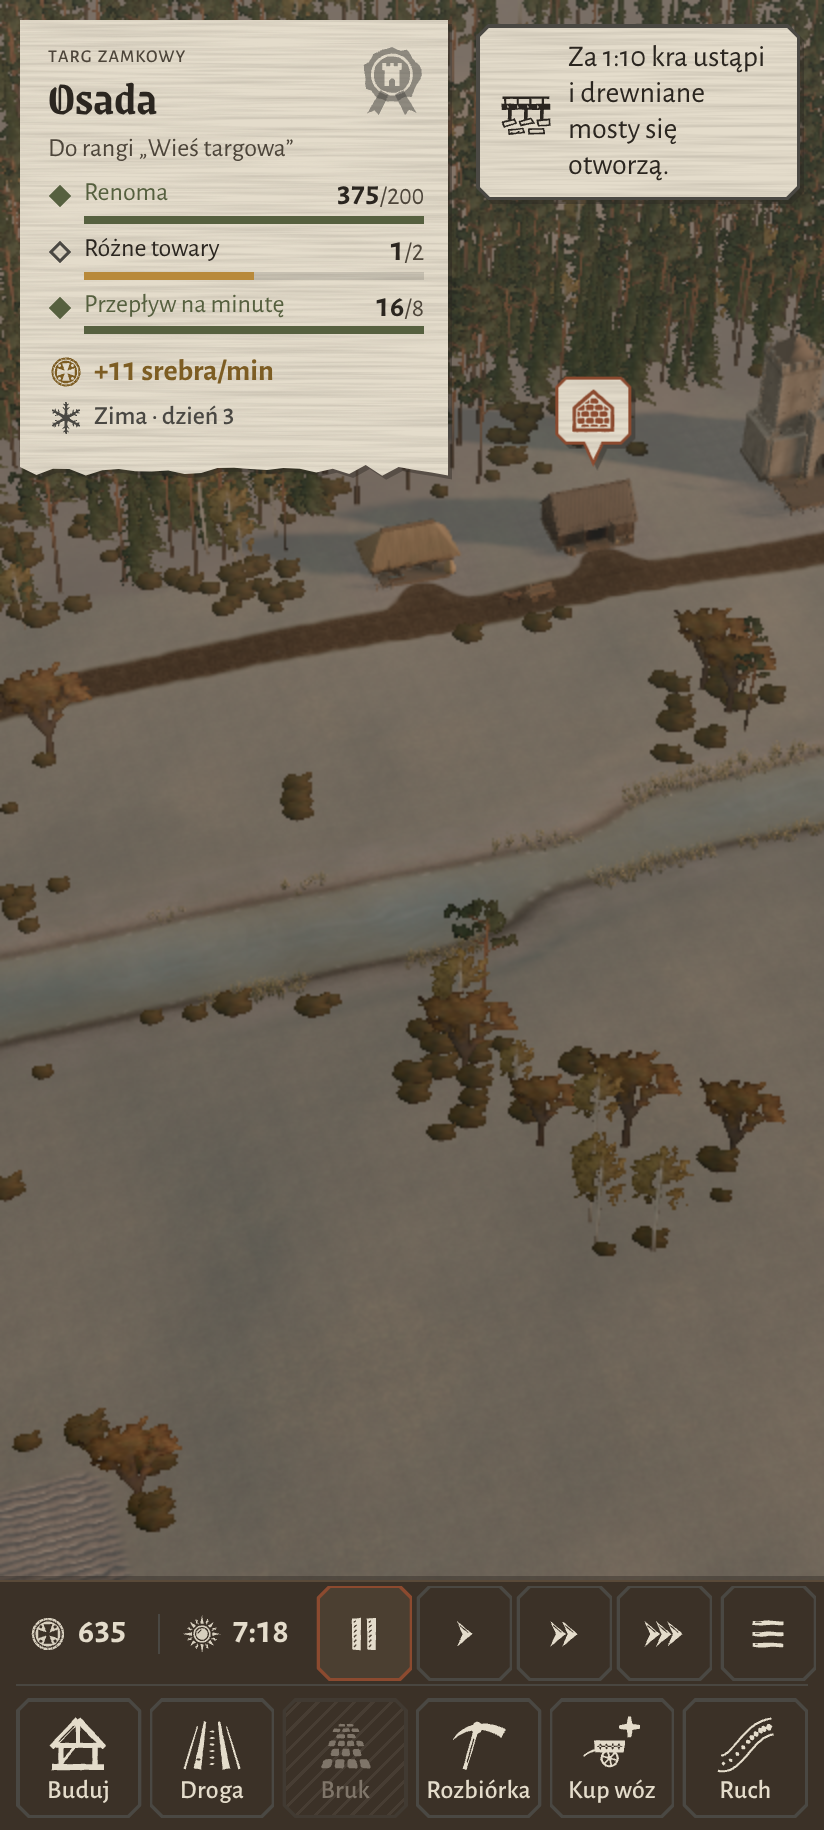
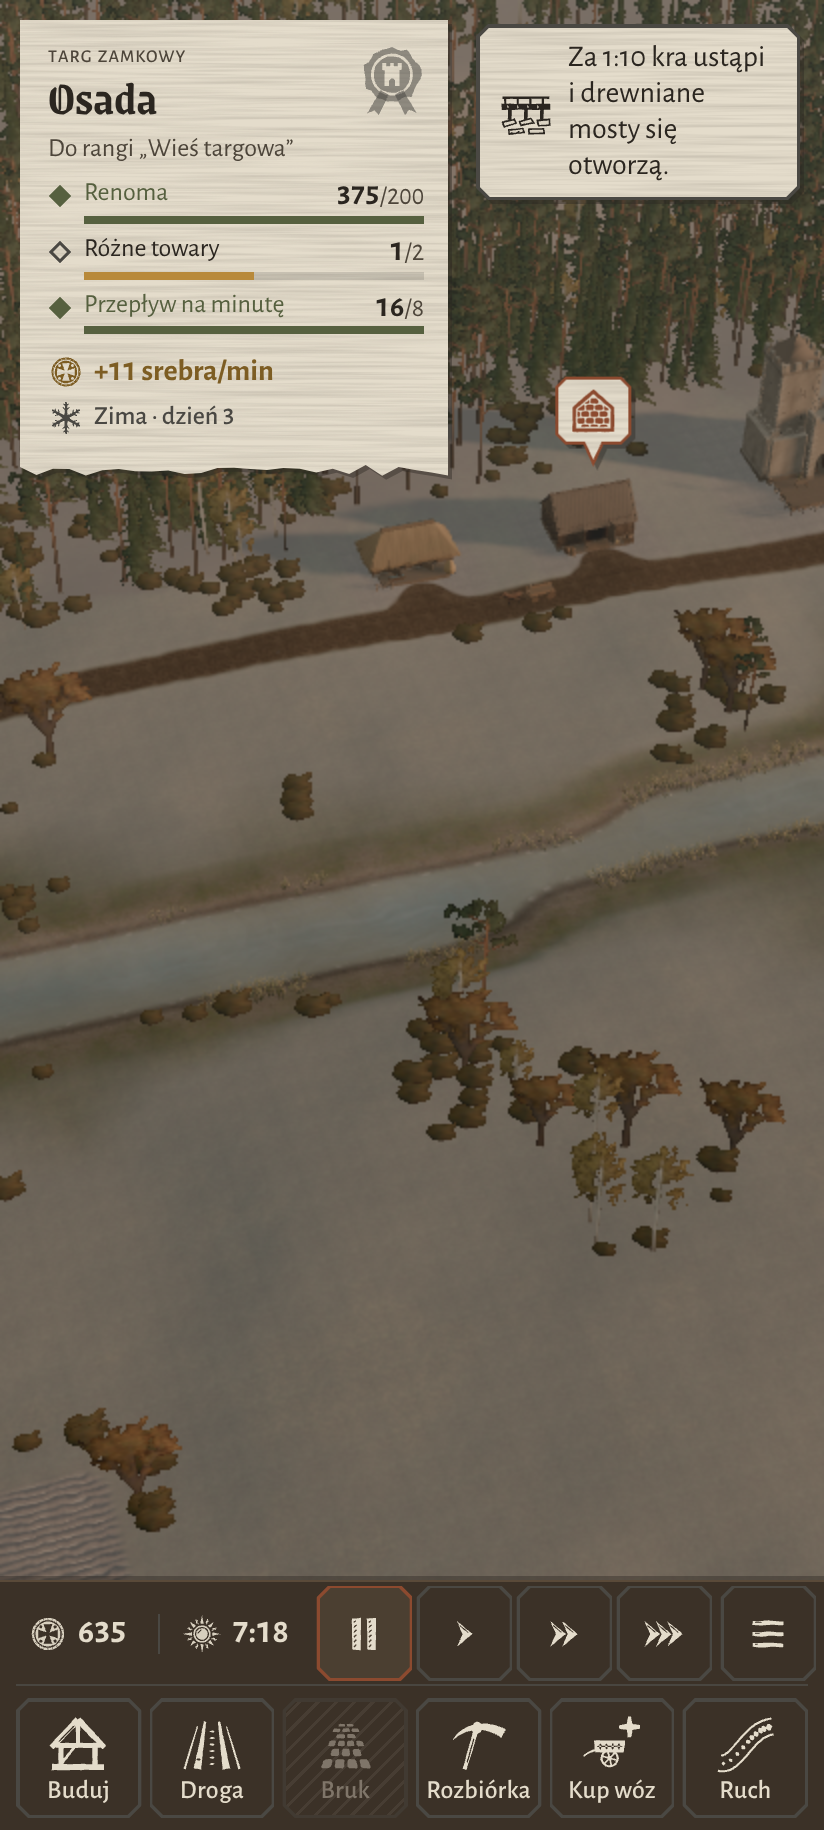
docs(seasons): D-33, design status; frost spares the river bank
Record how the seasons were wired (data flag derived into World.seasons,
no state version change), the before/after measurements, and update the
design doc to point at src/sim/seasons.ts. The winter frost uniform now
fades out near the water line.

Claude-Session: https://claude.ai/code/session_019bNUiNWDs1XtC7FDp2iuqt

Changed region(s): [[0.0, 0.3738, 1.0, 0.5295], [0.0, 0.5295, 0.5158, 0.623]]

diff --git a/src/render/terrain.ts b/src/render/terrain.ts
@@ -514,7 +514,7 @@ const FRAG_MAIN = /* glsl */ `
   if (uWinter > 0.001) {
     float lum = dot(A, vec3(0.3, 0.59, 0.11));
     // roads keep their colour (they carry the diagnosis) and the river bed stays dark
-    float frost = uWinter * 0.42 * (1.0 - roadCover) * smoothstep(-0.2, 0.6, hW);
+    float frost = uWinter * 0.42 * (1.0 - roadCover) * smoothstep(0.3, 1.2, hW);
     A = mix(A, vec3(lum * 0.9 + 0.28, lum * 0.92 + 0.29, lum * 0.95 + 0.31), frost);
     RO.x = mix(RO.x, RO.x * 0.85, frost);
   }

diff --git a/docs/DECISIONS.md b/docs/DECISIONS.md
@@ -294,3 +294,28 @@ tests/chains.test.ts). Measured seals (tools/bot-m7…m9.ts): VII 10.90 / 8.04 /
 10.11 / 9.48 min → 1/2/3 (repair paves 12 cells after 12 stone reached the granary at 2:59.7), IX 11.22 /
 10.06 / 8.70 min → 1/2/3. Menu names, subtitles and castellan letters PL/EN; the six new i18n keys are in
 `PENDING_KEYS` until the next translation round. (decided)
+
+**D-33 — Seasons wired into the free valley (no state change).** Implements D-31 (2) from docs/design/seasons.md.
+(1) *Switch*: `MissionDef.seasons` (only `sandbox: true`), read by `missionSeasons(id)` and copied by `createWorld` /
+`worldFromState` into `World.seasons` — derived like the terrain, never saved. The date is the tick (15-min seasons,
+60-min year from tick 0 = spring). So **no STATE_VERSION bump and no migration**: an old free-valley save loads with
+seasons at the date its tick implies (a midwinter save opens with the ice window it is in), contract saves never get
+them. Rejected: a `state.seasons` field — it would change every contract state's JSON (hash) and collide with the
+parallel v6 bump for missions VII–IX for no behavioural gain. Cost: a free-valley replay recorded before this build
+diverges after minute 4 (replays are local text, only from tick 0; acceptable). (2) *Hooks* (`src/sim/seasons.ts`,
+allocation-free, agree with `effectsAt` — tested over two years): `produce()` uses `cycleTicks()`: farm/fisher cycle =
+ceil(ticks·100/pct) via `Math.floor`, whole-item output kept, progress carries over a season change (completes once);
+wooden spans close via `bridgeIceUntil()` = max(authored `state.ice`, winter window) in wagons and Dijkstra — existing
+`BRIDGE_CLOSED{span,until}`, nothing written into `state.ice`; thaw = land dirt ×0.55 (`RAIN_DIRT`), once when it rains
+too, cobble and both bridge kinds untouched, own cost-table variants (`NetCache.costs` 4 → 8, key loaded+2·rain+4·thaw);
+fair = `fairPercent(world, good)` → `unitCents/quoteCents(…, fairPct)`, per unit floor(c·125/100) on the saturation price,
+used by `sellAt`, the dispatcher's price sort and the market sheet. (3) *Diagnosis*: `Slowdown.thaw` ("roztopy … bruk nie
+rozmięka"), `seasonNote()` on farm/fisher/castle cards, a consumer waiting on a winter-slowed farm says "slower supply,
+not a stall" (WAITING_UPSTREAM stays non-stalling), winter BRIDGE_CLOSED adds "ice recedes on its own". No new
+StallReason — a slower rate is not a stall (design §3). (4) *UI*: plaque line "Zima · dzień N" (existing icons stand in for
+the season icons), notices from `nextChange()` 2 game minutes ahead (once per event) and when a season / the thaw starts;
+terrain gets one `uWinter` uniform (frost, roads and the river bed excluded) and the thaw keeps the ground half wet.
+New PL/EN keys are in `PENDING_KEYS`. (5) *Proof*: m1–m9 and lab state hashes identical to the base build for every
+balance strategy, sampled every minute (29 runs); free-valley decent bot ranks 10.1 / 26.6 / 45.4 / 78.1 / 123.4 min
+(before 9.8 / 25.3 / 44.4 / 75.6 / 120.5; all inside the windows), earned 17 118 vs 17 488 silver; fuzz 40 runs and a
+3-run full-year sandbox fuzz without failures. (decided — numbers as in the design proposal; retune after playtest)

diff --git a/docs/design/seasons.md b/docs/design/seasons.md
@@ -1,6 +1,6 @@
 # Seasons in the Free Valley — D-31 proposal
 
-**Status:** deterministic data-only proposal. The new module src/sim/proposals/seasons.ts is NOT imported by the active simulation. This PR does not enable seasons in the live Free Valley or change any contract mission. Integration is specified below.
+**Status:** wired into the free valley (D-33). The module is `src/sim/seasons.ts`; it runs where `MissionDef.seasons` is set (the sandbox), derived into `World.seasons` — no state field. §2 below is the original integration plan; D-33 records what was built and where it differs (cycle ceil via `Math.floor`, fair through `fairPercent()`, `bridgeIceUntil()` in seasons.ts instead of widening `contract.iceUntil`).
 
 ## 1. Calendar and effects
 
